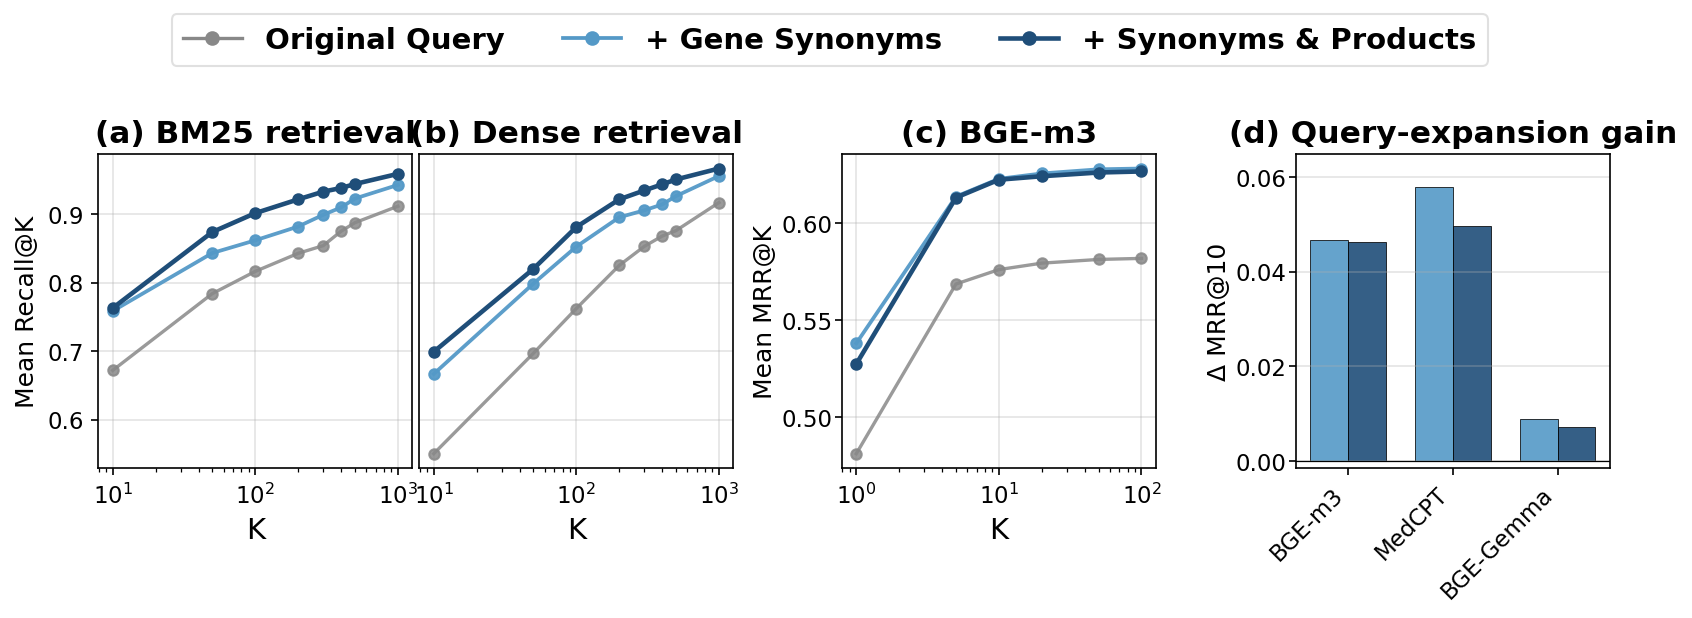
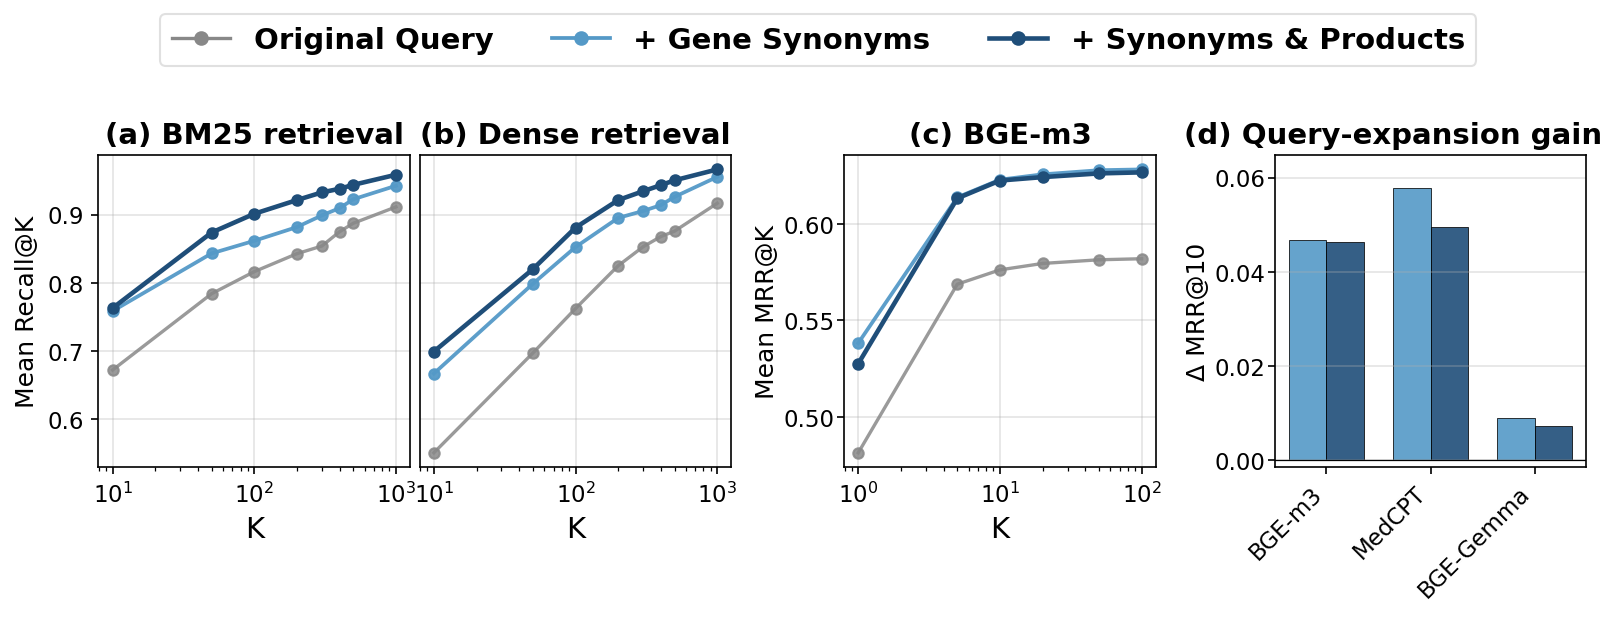
paper: concretize L117 challenge wording; polish Fig 4 layout (Gadi)
- L117: replace vague 'such cases remain challenging' with 'while not fully
  closing the gap to claims whose evidence is already present in abstracts'
- Fig 4: layout tweaks (title font/placement, figsize, spacer) so (a)/(b)
  titles no longer touch and panel (d) label/title sit cleanly

diff --git a/notebooks/query_expansion_sweeping.py b/notebooks/query_expansion_sweeping.py
@@ -699,18 +699,18 @@ FUSION_STYLE = {
 n_q = len(fig2_gold)
 
 # Fig 4 typography — slightly enlarged for print / slides
-_FIG4_FS_TITLE = 15
+_FIG4_FS_TITLE = 14
 _FIG4_FS_LABEL = 14
 _FIG4_FS_YLABEL = 12
 _FIG4_FS_TICK = 11
 _FIG4_FS_LEGEND = 14
 
-fig = plt.figure(figsize=(13.0, 4.0))
+fig = plt.figure(figsize=(12.8, 4.0))
 # Equal-width panels; spacer cols absorb y tick labels between (b,c) and (c,d).
 gs = GridSpec(
     1, 6, figure=fig,
-    width_ratios=[1.0, 1.0, 0.30, 1.0, 0.40, 1.0],
-    wspace=0.03,
+    width_ratios=[1.0, 1.0, 0.30, 1.0, 0.32, 1.0],
+    wspace=0.04,
 )
 ax_a = fig.add_subplot(gs[0])
 ax_b = fig.add_subplot(gs[1], sharey=ax_a)
@@ -814,7 +814,13 @@ ax_d.set_xticks(xpos)
 ax_d.set_xticklabels(inset_reranker_order, rotation=45, ha="right", fontsize=_FIG4_FS_TICK - 1)
 ax_d.tick_params(axis="y", pad=1)
 ax_d.set_ylabel("Δ MRR@10", fontsize=_FIG4_FS_YLABEL, labelpad=2)
-ax_d.set_title("(d) Query-expansion gain", fontsize=_FIG4_FS_TITLE, fontweight="bold")
+ax_d.set_title(
+    "(d) Query-expansion gain",
+    fontsize=_FIG4_FS_TITLE,
+    fontweight="bold",
+    x=0.38,
+    ha="center",
+)
 ax_d.grid(True, axis="y", alpha=0.35)
 
 if all_deltas:
@@ -836,7 +842,7 @@ for _ax in (ax_a, ax_b, ax_c, ax_d):
     _ax.set_box_aspect(1)
 
 fig.tight_layout(
-    rect=(0.02, 0.10, 0.99, 0.84),
+    rect=(0.02, 0.10, 0.98, 0.84),
     pad=0.30,
 )
 fig.legend(

diff --git a/output/paper_figures/paper.tex b/output/paper_figures/paper.tex
@@ -113,8 +113,8 @@ Our principal contribution is not a new retrieval architecture, but a benchmark
 and analysis of retrieval behavior in a sparse model-organism domain. The
 results show that reranking gains depend strongly on model fit, that trusted
 gene annotations can reduce vocabulary mismatch, and that full-text chunks improve
-recall and final ranking when abstracts omit detailed evidence, although
-such cases remain challenging.
+recall and final ranking when abstracts omit detailed evidence, while not fully
+closing the gap to claims whose evidence is already present in abstracts.
 
 \section{Related Work}
 Biomedical literature retrieval has been studied through broad benchmarks and shared tasks such as BioASQ~\cite{tsatsaronis_overview_2015} and the TREC BioGen track~\cite{coordinators-trec2025-papers-proc-4}, as well as through curation-oriented search and annotation systems such as Textpresso~\cite{muller_textpresso_2004} and PubTator~\cite{wei_pubtator_2013}. These efforts cover biomedical question-answering, semantic indexing, text mining, and literature search support. Our work is related in motivation, but focuses on a different evaluation setting: retrieving supporting citations for compact, detailed, domain-specific biological queries, where terminology, synonyms, and curated annotations may affect retrieval differently from broad biomedical QA settings.

diff --git a/output/paper_figures/reviewer_comments_checklist_revised.md b/output/paper_figures/reviewer_comments_checklist_revised.md
@@ -23,7 +23,7 @@ Legend: ✏ = inline edit (delete struck text → insert caret text) · 💬 
 - [x] ✅ **L98–99** — `studies of chemotaxis, motility, phago-…` → `chemotaxis, cell motility, phago-…`
 - [x] ✅ **L101** — `curator-written notes` → `curator-generated` *(recurring; done globally in ca8aad6 — see L74/101/136/147/148/304)*
 - [x] ✅ **L102–104** — `…retrieve the cited article from a domain-specific literature corpus.` → `…retrieve a proper citation to an article from a domain-specific literature corpus.`
-- [ ] ⏸ **L117** — `such cases remain challenging.` — "say 2–3 words about **why** it is challenging." **Deferred** (skipped for now).
+- [x] ✅ **L117** — replaced the vague "although such cases remain challenging" with a concrete reason: "…while not fully closing the gap to claims whose evidence is already present in abstracts." (author wording.)
 - [x] ✅ **L120 + L384** — `supporting papers` → `supporting citations` (both occurrences, for consistency).
 
 ## Page 3 (Related work / Dataset)
